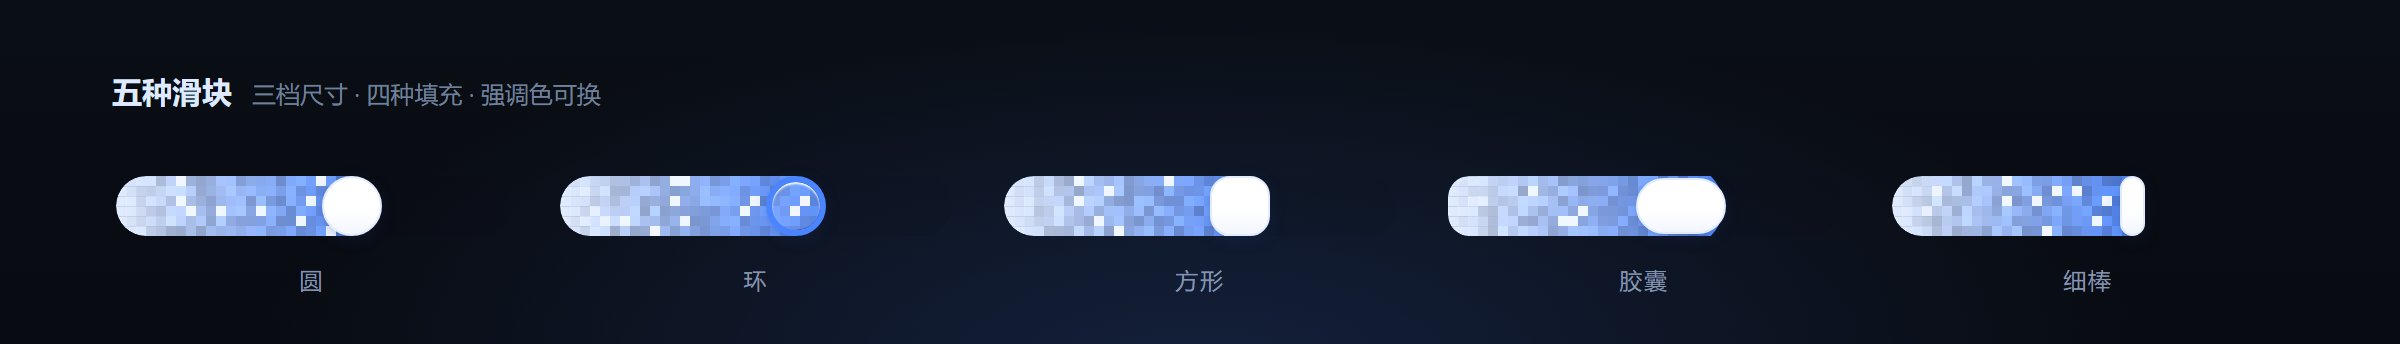
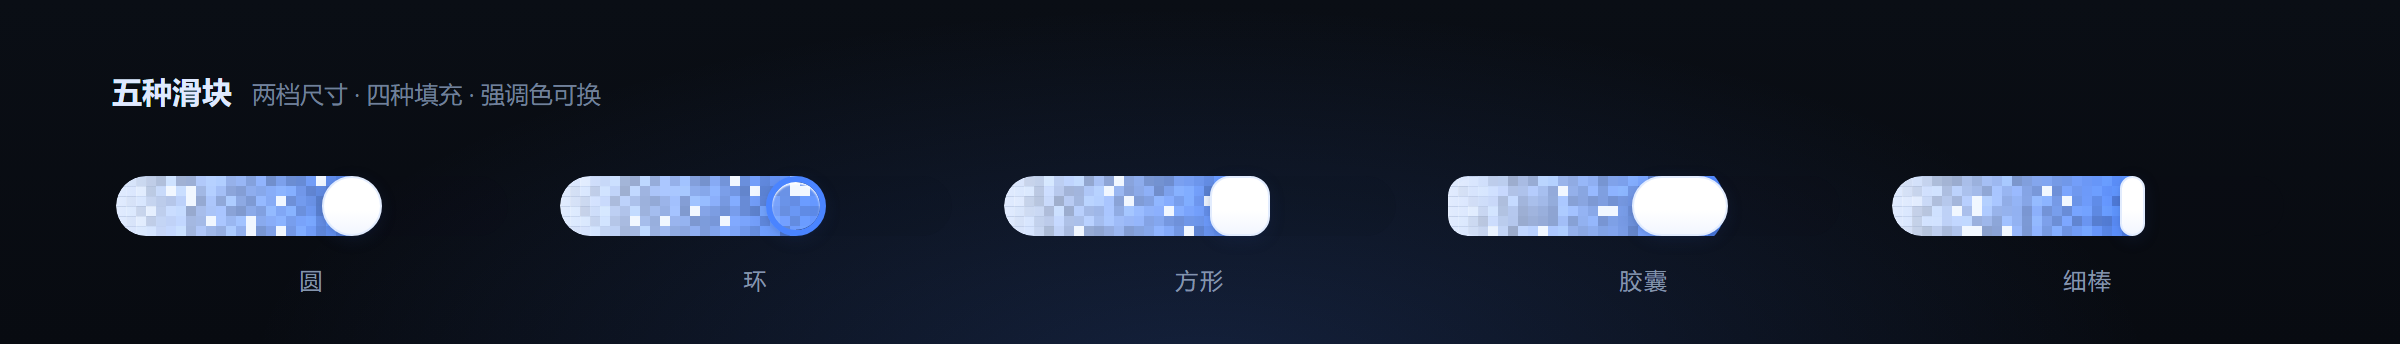
release: v1.0.7（包名统一为 dsh-effort-mosaic、移除滑块 28 档）

diff --git a/lib/client.js b/lib/client.js
@@ -23,7 +23,7 @@
  *   任何一步认不出 → 什么都不做（fail-open），官方菜单保持原样。
  */
 window.__ModuleLoader__.load({
-  id: "dsh-effortmosaic",
+  id: "dsh-effort-mosaic",
   factory: function (require) {
     var module = { exports: {} };
     var exports = module.exports;
@@ -31,10 +31,10 @@ window.__ModuleLoader__.load({
     var React = require("react");
     var ReactDOM = require("react-dom");
 
-    var PACKAGE_ID = "dsh-effortmosaic";
-    /* 改名前的老包名：profile 里的 link 键、旧版详情页的面板键还在用它，
-       配置面板要按两个键各注册一份，否则改过名的用户会丢掉详情页配置。 */
-    var LEGACY_PACKAGE_ID = "dsh-effort-mosaic";
+    var PACKAGE_ID = "dsh-effort-mosaic";
+    /* 改名过渡期用过的包名：那期间安装的用户，profile link 键仍是它。
+       配置面板按两个键各注册一份，避免详情页配置板块消失。 */
+    var LEGACY_PACKAGE_ID = "dsh-effortmosaic";
     var SLOT_NAME = "conversation.input.right";
     var ENTRY_ID = "effort-mosaic-anchor";
     var ENTRY_ORDER = 55;
@@ -56,7 +56,7 @@ window.__ModuleLoader__.load({
     var TRACK_INSET = 0;
 
     /* ── 粒子墙参数：逐项照抄设计稿 思考强度轨道.html ────────────────── */
-    /** 行数。设计稿是 30px 轨道 / CELL 5 = 6 行；这里 28px / ROWS 6 同样整除。 */
+    /** 行数。设计稿是 30px 轨道 / CELL 5 = 6 行，6 行严丝合缝铺满轨道。 */
     var ROWS = 6;
     /** 横向格子边长 = 轨道高度 / 行数，保证 6 行严丝合缝铺满轨道。 */
     var CELL = TRACK_HEIGHT / ROWS;
@@ -187,8 +187,8 @@ window.__ModuleLoader__.load({
       tintColor: "#4A84FF",
       /** 滑块形状：circle 实心圆 / ring 空心环 / rounded 圆角方 / pill 胶囊 / blade 细棒。 */
       knobShape: "circle",
-      /** 滑块直径（px）：28 / 30 / 34。30 = 轨道高，是设计稿原值。
-          下限 28：再小轨道上下就留出 2px 以上的边，滑块会显得"悬"在轨道里。 */
+      /** 滑块直径（px）：30 / 34。30 = 轨道高，是设计稿原值；34 是"珠子比管子大"。
+          下限即轨道高，旧配置里更小的尺寸会被夹回 30。 */
       knobSize: 30,
       /** 滑块质感：white 白瓷（设计稿）/ tinted 染色玻璃 / accent 强调色珠 / frosted 磨砂。 */
       knobFill: "white",
@@ -288,7 +288,8 @@ window.__ModuleLoader__.load({
       out.tintMode = src.tintMode === "custom" ? "custom" : "accent";
       out.tintColor = hexToRgb(src.tintColor) ? rgbToHex(hexToRgb(src.tintColor)) : DEFAULT_SETTINGS.tintColor;
       out.knobShape = SHAPES.indexOf(src.knobShape) === -1 ? "circle" : src.knobShape;
-      out.knobSize = Math.round(clampNum(src.knobSize, 28, 34, DEFAULT_SETTINGS.knobSize));
+      /* 只保留 30 / 34；旧配置里小于轨道高的尺寸统一夹回 30。 */
+      out.knobSize = Math.round(clampNum(src.knobSize, 30, 34, DEFAULT_SETTINGS.knobSize));
       out.knobFill = FILLS.indexOf(src.knobFill) === -1 ? "white" : src.knobFill;
       out.burstIntensity = clampNum(src.burstIntensity, 0.4, 1.8, DEFAULT_SETTINGS.burstIntensity);
       out.burstSpeed = clampNum(src.burstSpeed, 0.6, 1.4, DEFAULT_SETTINGS.burstSpeed);
@@ -323,7 +324,7 @@ window.__ModuleLoader__.load({
 
     /** 圆角：胶囊和细棒都吃满高度的一半，得到两端半圆的柱体。 */
     function knobRadiusOf(snap) {
-      /* 「方」的圆角必须跟着尺寸长：固定 7px 时，28 还算圆润，34 就明显变方了。
+      /* 「方」的圆角必须跟着尺寸长：固定 7px 时，30 还算圆润，34 就明显变方了。
          取直径的 0.34 —— 视觉上始终是"圆角方形"，不会越调越大越像正方形。 */
       if (snap.knobShape === "rounded") return Math.round(snap.knobSize * 0.34) + "px";
       return "999px";
@@ -332,11 +333,10 @@ window.__ModuleLoader__.load({
     /**
      * 轨道**可见带**的高度（填充层 / 粒子层 / 轨道凹槽都用它）。
      *
-     * 取"轨道高"和"滑块高"的较小值：滑块调到 28px 时，如果填充还是 30px，
-     * 它就比滑块上下各高 1px —— 接缝处那圈蓝边会从滑块上方/下方露出来，
-     * 看起来就是"轨道比滑块宽、没收进滑块里"。让整条带跟着滑块缩到 28px，
-     * 填充的上边缘就和滑块顶点齐平，圆滑相切，不可能再露边。
-     * 滑块比轨道大（34px）时保持 30px：那是"珠子比管子大"，管子不该跟着撑大。
+     * 取"轨道高"和"滑块高"的较小值：滑块比轨道大（34px）时保持 30px，
+     * 那是"珠子比管子大"，管子不该跟着撑大；等于轨道高时三者齐平。
+     * 目前只有 30 / 34 两档，这个值恒为 30 —— 保留通用写法是为了让
+     * 填充与粒子层永远不越过凹槽轮廓。
      */
     function bandHeightOf(snap) {
       return Math.min(TRACK_HEIGHT, snap.knobSize);
@@ -481,10 +481,8 @@ window.__ModuleLoader__.load({
         root.style.setProperty("--dem-knob-w", knobW + "px");
         root.style.setProperty("--dem-knob-r", (knobW / 2) + "px");
         root.style.setProperty("--dem-knob-radius", knobRadiusOf(settings));
-        /* 轨道**可见带**的高度 = min(轨道高, 滑块高)。轨道本体（布局/点击热区）仍是 30px，
-           但凹槽、填充、粒子层统一缩到这条带里 —— 滑块 28px 时带高也是 28px，
-           填充的上边缘与滑块顶点齐平，衔接处不可能再露出一圈蓝边。
-           以前固定 30px 时，28px 的滑块上下各有一像素的填充/粒子漏在滑块外面。 */
+        /* 凹槽、填充、粒子层统一用同一条可见带高度（min(轨道高, 滑块高)）。
+           当前只有 30 / 34 两档，带高恒为 30px，三者与凹槽轮廓严格重合。 */
         var bandH = bandHeightOf(settings);
         root.style.setProperty("--dem-fill-h", bandH + "px");
         root.style.setProperty("--dem-band-inset", ((TRACK_HEIGHT - bandH) / 2) + "px");
@@ -533,8 +531,8 @@ window.__ModuleLoader__.load({
      *   1. 竖切 —— 滑块圆心左边一律保留：轨道本体和粒子一直铺到滑块圆心；
      *   2. 圆盘 —— 圆心处只保留滑块**内缘**那个圆内的部分，圆外一律消失。
      * 于是填充/粒子的右边界就是滑块内缘那条曲线：滑块多大，收口就多大。
-     * 固定 `border-radius: 15px` 只在滑块正好 30px 时才是同一条曲线 —— 滑块调到 28px 时，
-     * 填充是 r15 的圆、滑块是 r14，多出来的那一圈就从滑块上下左右露出来，看着就是
+     * 固定 `border-radius: 15px` 只在滑块正好 30px 时才是同一条曲线 —— 换成 34px，
+     * 滑块内壁半径变成 17，收口仍是 15，两条曲线对不上，看着就是
      * "轨道没有收在滑块里、衔接处多了一块"。空心环则正好灌到内壁。
      *
      * 圆心 `--dem-fill-tail-x` 由 rAF 每帧按滑块**真实渲染位置**写入（缓动途中也跟得住，
@@ -575,8 +573,8 @@ window.__ModuleLoader__.load({
         + "position:relative;box-sizing:border-box;height:" + TRACK_HEIGHT + "px;margin:2px " + TRACK_INSET + "px 0;"
         + "border-radius:999px;"
         + "background:var(--dem-slot-bg);"
-        /* 凹槽只画在**可见带**里：滑块缩到 28px 时上下各留 1px 空白（布局高度仍是 30，
-           点击热区不变），凹槽和填充、粒子同高，边缘才对得齐。
+        /* 凹槽只画在**可见带**里（padding + background-clip:content-box）。
+           当前档位下 inset 恒为 0，凹槽 / 填充 / 粒子同高，边缘对得齐。
            `background-clip` 必须写在 `background` 简写之后 —— 简写会把 clip 重置回 border-box。 */
         + "padding:var(--dem-band-inset,0px) 0;background-clip:content-box;"
         + "cursor:pointer;touch-action:none;user-select:none;-webkit-user-select:none;overflow:visible;"
@@ -772,7 +770,7 @@ window.__ModuleLoader__.load({
         + "{backdrop-filter:blur(4px) saturate(1.15);-webkit-backdrop-filter:blur(4px) saturate(1.15)}",
       ".dem-cfg-preview-track{position:relative;box-sizing:border-box;height:" + TRACK_HEIGHT + "px;border-radius:999px;overflow:visible;"
         + "cursor:default;background:var(--dsw-alias-border-l1,rgba(255,255,255,.06));isolation:isolate;"
-        /* 和真轨道同一套：凹槽只画在可见带里（滑块 28px 时带高也是 28px）。
+        /* 和真轨道同一套：凹槽只画在可见带里。
            `background-clip` 必须跟在 `background` 简写后面。 */
         + "padding:var(--dem-band-inset,0px) 0;background-clip:content-box}",
       /* 预览只演示轨道内部的动效：外发光会画到轨道外面，这里关掉；
@@ -2460,7 +2458,6 @@ window.__ModuleLoader__.load({
       { value: "blade", label: "细棒" },
     ];
     var SIZE_OPTIONS = [
-      { value: 28, label: "28" },
       { value: 30, label: "30" },
       { value: 34, label: "34" },
     ];
@@ -2817,13 +2814,10 @@ window.__ModuleLoader__.load({
         try { console.error("[effort-mosaic] 插槽注册失败，控件不会出现：", err); } catch (e) { /* 忽略 */ }
       }
       /* 插件详情页里的自定义版式面板。
-         `plugins.bundle.config` 是**按 npm 包名**索引的（宿主原话：以组合包的包名为键），
-         而包名有两套在同时流通：
-           · 发行名 —— package.json 的 `name`（现在是 `dsh-effortmosaic`）
-           · 安装名 —— profile 的 dependencies / bundles 里那条 link 的键
-                       （老用户那里还是 `dsh-effort-mosaic`，因为 link 是按目录名写的）
-         只按发行名注册时，安装名是旧键的用户会**看不到这块面板**（详情页按安装名找键）。
-         所以两个键各注册一份：宿主只渲染和当前组合包键匹配的那一份，不会重复。 */
+         `plugins.bundle.config` 是**按 npm 包名**索引的（宿主原话：以组合包的包名为键）。
+         包名与仓库名已统一为 `dsh-effort-mosaic`，但改名过渡期发过 `dsh-effortmosaic`，
+         那批用户的 profile link 键仍是旧名。两个键各注册一份：
+         宿主只渲染与当前组合包键匹配的那一份，不会出现两个面板。 */
       var CONFIG_KEYS = [PACKAGE_ID];
       if (PACKAGE_ID !== LEGACY_PACKAGE_ID) CONFIG_KEYS.push(LEGACY_PACKAGE_ID);
       CONFIG_KEYS.forEach(function (configKey) {

diff --git a/lib/index.js b/lib/index.js
@@ -17,7 +17,7 @@
 import { readFileSync } from "node:fs";
 import { fileURLToPath } from "node:url";
 
-const PACKAGE_ID = "dsh-effortmosaic";
+const PACKAGE_ID = "dsh-effort-mosaic";
 
 /**
  * 静态核对客户端产物：只读文件、查关键标志，**不执行**产物。

diff --git a/README.md b/README.md
@@ -18,17 +18,17 @@
 - **看得见强度** —— 一条连续轨道比 Off / Low / High / Max 四个字直观
 - **手感连续** —— 拖动跟手不跳档；松手按临界阻尼收口；点击只判最近档位，不先跳到指针
 - **最高档有代价感** —— 默认只有开满时粒子才飞出轨道，四套越界动画
-- **可调到底** —— 5 种滑块 × 3 档尺寸 × 4 种填充，颜色与幅度都能改
+- **可调到底** —— 5 种滑块 × 2 档尺寸 × 4 种填充，颜色与幅度都能改
 
 档位表不写死：跟随当前模型在 `reasoning.efforts` 里声明的档位；模型没声明就不接管这一行（fail-open）。最高档时，输入框胶囊里的档位名会染成品牌蓝。
 
 ## 安装
 
 ```sh
-dsh plugin --profile web add dsh-effortmosaic
+dsh plugin --profile web add dsh-effort-mosaic
 ```
 
-桌面端：设置 → 插件 → 添加插件，填 `dsh-effortmosaic`，或仓库地址 `https://github.com/xiaobaga281/dsh-effort-mosaic`。
+桌面端：设置 → 插件 → 添加插件，填 `dsh-effort-mosaic`，或仓库地址 `https://github.com/xiaobaga281/dsh-effort-mosaic`。
 
 也可以从 GitHub 装（无构建步骤，内容与 npm 一致）：
 
@@ -36,9 +36,9 @@ dsh plugin --profile web add dsh-effortmosaic
 dsh plugin --profile web add "github:xiaobaga281/dsh-effort-mosaic"
 ```
 
-> 包名是 `dsh-effortmosaic`，仓库名是 `dsh-effort-mosaic` —— 只差一个连字符（历史原因，两者是同一个插件）。带两个连字符的 npm 包名已被占用且不可用，**别填它**。
+> 包名与仓库名现在统一为 `dsh-effort-mosaic`。改名过渡期曾短暂用过 `dsh-effortmosaic`，那个包不再维护，**别填错**。
 
-**卸载**：`dsh plugin --profile web remove dsh-effortmosaic`；桌面端在插件页里卸载。
+**卸载**：`dsh plugin --profile web remove dsh-effort-mosaic`；桌面端在插件页里卸载。
 
 **要求**：DSH Desktop `0.2.1-rc.3` 及以上，Node `>= 22`（仅测试用）。零运行时依赖、无构建步骤；改过 `lib/client.js` 需**整进程重启**才生效。
 
@@ -55,7 +55,7 @@ dsh plugin --profile web add "github:xiaobaga281/dsh-effort-mosaic"
 
 ## 视觉
 
-一条 30px 高的胶囊凹槽，自下而上叠四层：填充渐变 → 6 行 × 5px 粒子 → 刻度 → 滑块。填充、粒子、凹槽共用同一条轮廓：右端按滑块内缘收口，带高跟随滑块（`min(30, 滑块高)`），缩到 28px 也不会在接缝处露出蓝边。
+一条 30px 高的胶囊凹槽，自下而上叠四层：填充渐变 → 6 行 × 5px 粒子 → 刻度 → 滑块。填充、粒子、凹槽共用同一条轮廓：右端按滑块内缘收口，带高跟随滑块（`min(30, 滑块高)`），接缝处不会露出蓝边。
 
 粒子按离滑块的距离决定散开程度：右侧 2% 是严格贴网格的墙，往左 `amp` 增大、漂移与抖动随之变大，最左端几乎全部脱离。颜色取自同一条渐变色阶 × 明度系数（0.80–1.06），砖缝从浅蓝到纯蓝都看得清。
 
@@ -75,7 +75,7 @@ dsh plugin --profile web add "github:xiaobaga281/dsh-effort-mosaic"
 | 滑轨强调色 | 6 个预设 + 任意 hex | `#4A84FF` |
 | 最高档字符 | 跟随强调色 / 自定义 | 跟随强调色 |
 | 滑块形状 | 圆 / 环 / 方 / 胶囊 / 细棒 | 圆 |
-| 滑块大小 | 28 / 30 / 34 px | 30 |
+| 滑块大小 | 30 / 34 px | 30 |
 | 滑块填充 | 白瓷 / 染色 / 强调色 / 磨砂 | 白瓷 |
 | 点亮样式 | 能量波 / 扫描线 / 爆散 / 呼吸 | 能量波 |
 | 点亮强度 | 0.4 – 1.8× | 1.0× |
@@ -115,6 +115,7 @@ test/smoke.mjs       冒烟测试，不进 npm 包
 
 ## 更新日志
 
+- **1.0.7** — 移除滑块 28 档（只剩 30 / 34）；包名改回 `dsh-effort-mosaic`，与仓库名统一。
 - **1.0.6** — 优化粒子出格的情况。粒子层盒子改为与可见带同高、纵向格子按带高切分，
   非越界档位或关闭越界时方块不再溢出轨道上下边界；越界动画保持原样。
 - **1.0.5** — 修复切到最高档时滑块未到位、粒子先点亮的问题。
